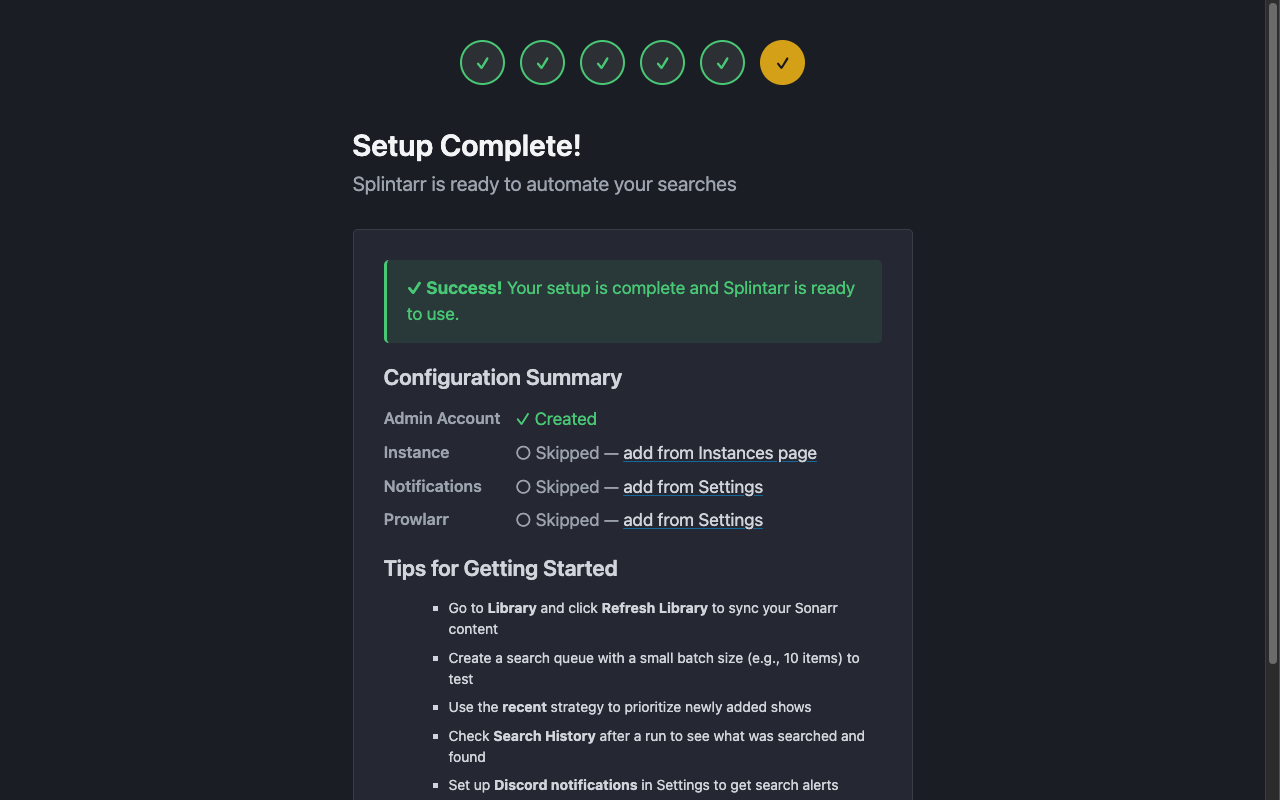
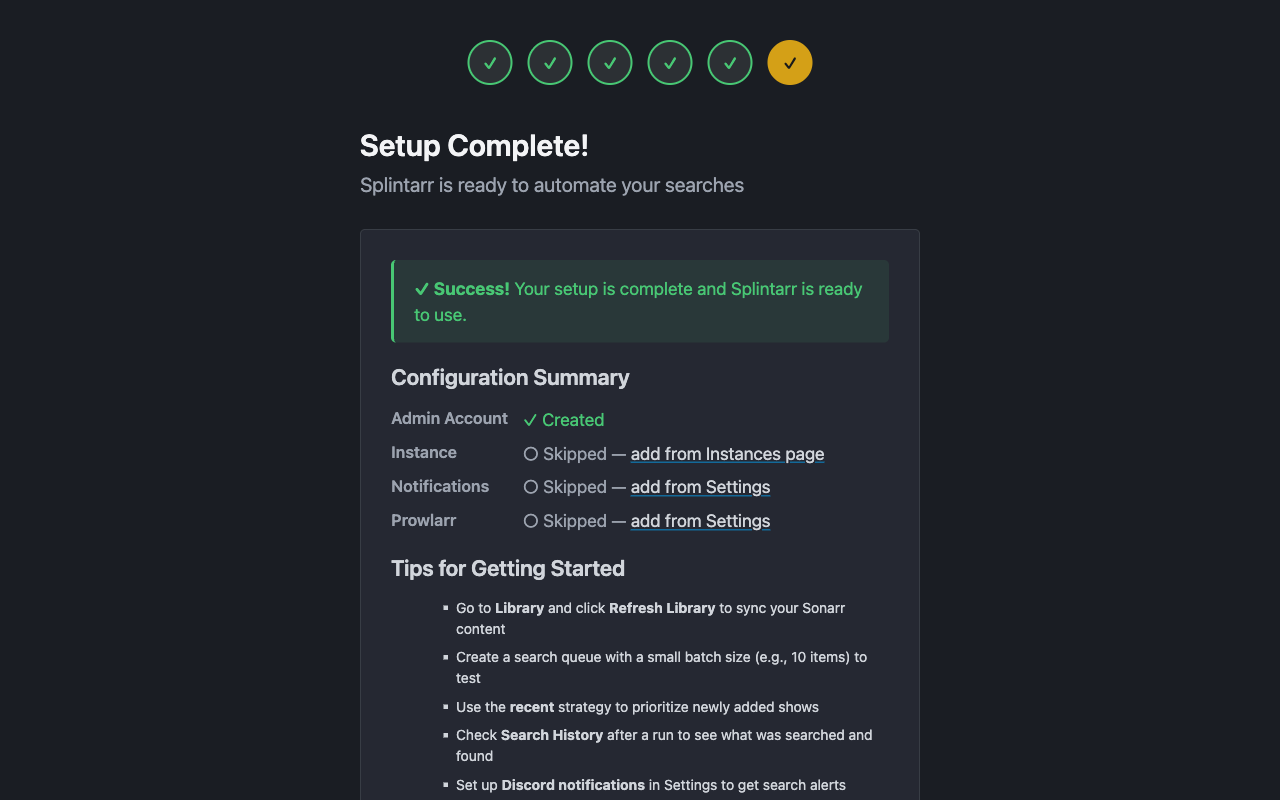
docs: comprehensive v1.3.0 documentation update with fresh screenshots
Regenerated all screenshots at 1280x800 from clean Docker install showing
v1.3.0 features: completion cards, indexer budget progress bars, scheduling
modes, and demo mode dashboard. Added 2 new screenshots for queue scheduling
(weekly mode, jitter, budget-aware toggle).

Updated docs across all layers:
- README: expanded screenshot table with scheduling and login views
- Search Strategies: added scheduling modes section (daily/weekly/jitter)
- Architecture: config import/export, budget-aware search, updated job table
- API Reference: 11 new endpoints from v1.1.0-v1.3.0
- Backup & Restore: config import/export tip, version bump
- Getting Started: schedule mode examples replace cron notation, jitter tip
- PRD: v1.3.0 features marked Done, deferred features labeled post-v1.3
- Upgrade Guide: built-in update checker in Staying Updated section
- CLAUDE.md: screenshot inventory updated with new files
- Fixed stale version footers (0.1.0 → 1.3.0) in security, troubleshoot,
  deploy-production docs

diff --git a/docs/PRD.md b/docs/PRD.md
@@ -94,7 +94,6 @@ Feature status across all releases (Sonarr only; Radarr support deferred to post
 | - | [v0.5.0 UX Overhaul](#v050) | **Done** | v0.5.0 | PR #94; Setup wizard, onboarding, filters |
 | - | [v0.5.1 Bug Fixes](#v051) | **Done** | v0.5.1 | PR #97; Progress bars, Docker version |
 | 13 | [Search Analytics Dashboard](#13-search-analytics-dashboard) | Deferred | v1.3.0 | Superseded by mini analytics (#18) |
-| 14 | [Config Import](#14-config-import) | Planned | v1.3.0 | Companion to Config Export |
 | 15 | [WebSocket Activity Feed](#15-websocket-real-time-activity-feed) | **Done** | v1.1.0 | PR #111 |
 | - | [Synthetic Demo Mode](#synthetic-demo-mode) | **Done** | v1.1.0 | PR #112 |
 | 16 | [Search Progress & Live Queue View](#16-search-progress--live-queue-view) | **Done** | v1.1.0 | PR #113 |
@@ -107,6 +106,9 @@ Feature status across all releases (Sonarr only; Radarr support deferred to post
 | 23 | [Queue Scheduling Improvements](#23-queue-scheduling-improvements) | **Done** | v1.3.0 | PR #125; Daily/weekly modes, jitter |
 | 25 | [Series Completion Cards](#25-series-completion-cards) | **Done** | v1.3.0 | PR #124; Dashboard + Library section |
 | 14 | [Config Import](#14-config-import) | **Done** | v1.3.0 | PR #126; Preview + atomic import |
+| 22 | [Quality-Aware Search Intelligence](#22-quality-aware-search-intelligence) | Deferred | Post-v1.3 | API spike done; implementation deferred |
+| 24 | [Apprise Notification Integration](#24-apprise-notification-integration) | Deferred | Post-v1.3 | Discord-only for now; Apprise deferred |
+| 26 | [Queue Recommendations](#26-queue-recommendations) | Deferred | Post-v1.3 | Deferred until demand warrants it |
 | - | Radarr Support | Deferred | Post-v1.3 | Backend code exists, UI gated |
 
 ---
@@ -513,13 +515,13 @@ Implement the stubbed Custom Strategy with simple dropdown filters: year range, 
 
 ### 21. Indexer Budget Visibility & Forecasting
 
-**Priority:** High | **Effort:** Medium | **Status:** Planned (v1.3.0)
+**Priority:** High | **Effort:** Medium | **Status:** Done (v1.3.0, PR #123)
 
 Per-indexer API usage progress bars on dashboard. Estimated API cost in queue creation. Budget alerts via notifications at 20% remaining. Smart batch auto-sizing ON by default — automatically reduces `max_items_per_run` when budget is low. User can disable per-queue.
 
 ### 22. Quality-Aware Search Intelligence
 
-**Priority:** Medium | **Effort:** Medium | **Status:** Planned (v1.3.0)
+**Priority:** Medium | **Effort:** Medium | **Status:** Deferred (post-v1.3)
 
 **API spike confirmed:** Sonarr exposes `quality.quality.resolution`, `quality.quality.source`, `customFormats`, `customFormatScore` on episode files.
 
@@ -527,25 +529,25 @@ New quality gap scoring factor for cutoff unmet: resolution gap (720p→1080p = 
 
 ### 23. Queue Scheduling Improvements
 
-**Priority:** Medium | **Effort:** Low-Medium | **Status:** Planned (v1.3.0)
+**Priority:** Medium | **Effort:** Low-Medium | **Status:** Done (v1.3.0, PR #125)
 
 Three schedule modes: Interval (existing "every N hours"), Daily ("run at HH:MM every day"), Weekly ("run at HH:MM on Mon/Wed/Fri"). Jitter: random 0-15 min offset to prevent thundering herd. Uses APScheduler CronTrigger (already a dependency).
 
 ### 24. Apprise Notification Integration
 
-**Priority:** Medium | **Effort:** Low | **Status:** Planned (v1.3.0)
+**Priority:** Medium | **Effort:** Low | **Status:** Deferred (post-v1.3)
 
 [Apprise](https://github.com/caronc/apprise) integration for 90+ notification services via URL strings. Keep existing Discord as primary. Apprise handles formatting and delivery for all additional services.
 
 ### 25. Series Completion Cards
 
-**Priority:** Medium | **Effort:** Low | **Status:** Planned (v1.3.0)
+**Priority:** Medium | **Effort:** Low | **Status:** Done (v1.3.0, PR #124)
 
 Library page "Completion Progress" section. Compact cards with small poster, completion bar, missing/total count. Filters: most incomplete, most recently aired, closest to complete.
 
 ### 26. Queue Recommendations
 
-**Priority:** Medium | **Effort:** Medium | **Status:** Planned (v1.3.0)
+**Priority:** Medium | **Effort:** Medium | **Status:** Deferred (post-v1.3)
 
 Post-sync library analysis with data-driven queue recommendations. Sizes batches to fit Prowlarr indexer limits. "You have 342 missing episodes → batch 20, every 6h, covered in ~4 days." One-click "Create recommended queues" button on Getting Started and empty Queues page.
 
@@ -557,7 +559,7 @@ Time-series charts, strategy comparison, instance comparison. Superseded by Feat
 
 ### 14. Config Import
 
-**Priority:** Low | **Effort:** Medium | **Status:** Planned (v1.3.0)
+**Priority:** Low | **Effort:** Medium | **Status:** Done (v1.3.0, PR #126)
 
 Companion to Config Export (v0.2.1). Upload JSON to restore instances, queues, exclusions, notifications. Conflict resolution for duplicate names, API key re-entry.
 

diff --git a/docs/explanation/search-strategies.md b/docs/explanation/search-strategies.md
@@ -236,6 +236,26 @@ Sorting optimizes for **search effectiveness**, not fairness. The goal is maximi
 
 If a popular recent show has 10 missing episodes and an obscure 5-year-old show has 10 missing episodes, searching the popular show first likely yields more results. The obscure show will get its turn, but after higher-probability targets.
 
+## Scheduling Modes
+
+*Added in v1.3.0*
+
+Each queue supports three scheduling modes:
+
+| Mode | Description | Use Case |
+|------|-------------|----------|
+| **Every N hours** | Runs at a fixed interval (1-168 hours) | High-frequency searches (recent, aggressive missing) |
+| **Daily** | Runs at a specific time every day (HH:MM) | Standard daily searches |
+| **Weekly** | Runs at a specific time on selected days | Weekly maintenance (cutoff unmet, quality upgrades) |
+
+### Jitter
+
+All modes support a **jitter** setting (0-15 minutes) that adds a random offset to prevent multiple queues from hitting indexers at exactly the same time. This uses APScheduler's native jitter support.
+
+### Budget-Aware Batch Sizing
+
+When **"Adjust batch size based on indexer budget"** is enabled on a queue, Splintarr reduces the items-per-run when indexer API budget is low. This prevents wasting limited API calls on low-priority searches.
+
 ## Configuration Patterns
 
 ### Daily Operations
@@ -245,8 +265,8 @@ If a popular recent show has 10 missing episodes and an obscure 5-year-old show 
 **Pattern**:
 ```
 Recent Strategy: Every 6 hours, batch size 10
-Missing Strategy: Daily at 2 AM, batch size 20
-Cutoff Strategy: Weekly on Saturday, batch size 50
+Missing Strategy: Daily at 2:00 AM, batch size 20
+Cutoff Strategy: Weekly on Saturday at 2:00 AM, batch size 50
 ```
 
 **Rationale**: Recent strategy catches new releases quickly. Missing strategy fills gaps daily. Cutoff strategy improves quality on relaxed schedule.

diff --git a/docs/explanation/architecture.md b/docs/explanation/architecture.md
@@ -183,7 +183,7 @@ Security is implemented in layers:
 
 Background job processing uses APScheduler for its flexibility and reliability:
 
-**Job Store**: SQLite-based persistence ensures jobs survive restarts
+**Job Store**: Memory-based persistence with job re-registration on startup
 
 **Execution**: Async execution prevents blocking the API server
 
@@ -199,14 +199,21 @@ Background job processing uses APScheduler for its flexibility and reliability:
 
 Search queues operate independently:
 
-1. **Scheduler triggers** job at configured time
+1. **Scheduler triggers** job at configured time (interval, daily, or weekly mode with optional jitter)
 2. **Queue processor** fetches items based on strategy
-3. **Rate limiting** ensures indexer limits respected
-4. **Search execution** calls Sonarr/Radarr API asynchronously
-5. **History recording** prevents duplicate searches
-6. **Error handling** retries with exponential backoff
+3. **Budget check** — if `budget_aware` is enabled, reduces batch size when indexer API budget is low
+4. **Rate limiting** ensures indexer limits respected
+5. **Search execution** calls Sonarr/Radarr API asynchronously
+6. **History recording** prevents duplicate searches
+7. **Error handling** retries with exponential backoff
 
 This decoupled design allows multiple queues to run concurrently while respecting system-wide rate limits.
+
+### Config Import/Export
+
+*Added in v1.3.0*
+
+Config export downloads a JSON snapshot of instances (API keys redacted), queues, exclusions, and notification settings. Config import validates the JSON, shows a preview with conflict detection, requires re-entry of API keys and webhook URLs, and applies atomically with rollback on failure. SSRF protection validates all imported instance URLs.
 
 ## HTTP Client Architecture
 

diff --git a/docs/reference/api.md b/docs/reference/api.md
@@ -2,8 +2,8 @@
 ## Splintarr REST API
 
 **Base URL:** `http://localhost:7337/api`
-**Version:** 0.1.0
-**Authentication:** Bearer JWT Token
+**Version:** 1.3.0
+**Authentication:** JWT via httpOnly cookies (access_token + refresh_token)
 
 ---
 
@@ -632,7 +632,7 @@ username=admin&password=SecurePassword123!
 ```json
 {
   "status": "healthy",
-  "version": "0.1.0",
+  "version": "1.3.0",
   "database": "connected",
   "uptime_seconds": 3600
 }
@@ -720,5 +720,21 @@ Interactive API documentation available at:
 
 ---
 
-**Version:** 0.1.0
-**Last Updated:** 2026-02-24
+**Version:** 1.3.0
+**Last Updated:** 2026-03-04
+
+### Additional Endpoints (v1.1.0+)
+
+| Method | Path | Description | Added |
+|--------|------|-------------|-------|
+| GET | `/ws/live` | WebSocket real-time events | v1.1.0 |
+| POST | `/api/search-queues/{id}/preview` | Dry run / preview next run | v1.1.0 |
+| POST | `/api/search-queues/bulk` | Bulk pause/resume/delete | v1.1.0 |
+| GET | `/api/search-history/analytics` | Last 7 days analytics | v1.1.0 |
+| GET | `/api/updates/status` | Update checker status | v1.1.1 |
+| POST | `/api/updates/check` | Trigger update check | v1.1.1 |
+| POST | `/api/updates/dismiss` | Dismiss update banner | v1.1.1 |
+| GET | `/api/instances/{id}/quality-profiles` | Quality profiles from library | v1.2.0 |
+| GET | `/api/library/completion` | Completion progress lists | v1.3.0 |
+| POST | `/api/config/import/preview` | Preview config import | v1.3.0 |
+| POST | `/api/config/import/apply` | Apply config import | v1.3.0 |

diff --git a/docs/tutorials/getting-started.md b/docs/tutorials/getting-started.md
@@ -91,7 +91,7 @@ Go to **Search Queues** and click **Create Queue**. Fill in the following:
 | **Name** | Descriptive label | "Daily Missing Search" |
 | **Instance** | Which Sonarr/Radarr to search | Select the instance you just added |
 | **Strategy** | What to look for | Missing |
-| **Schedule** | When to run | Daily at 2:00 AM |
+| **Schedule** | When to run | Daily at 2:00 AM (or choose Interval, Weekly modes) |
 | **Items per Batch** | How many items per run | 50 |
 
 ### Search Strategies
@@ -109,7 +109,7 @@ Click **Create Queue** to save. The queue will run automatically on its schedule
 ```
 Name: Daily Missing
 Strategy: Missing
-Schedule: 0 2 * * * (2 AM daily)
+Schedule Mode: Daily at 02:00
 Batch Size: 50
 ```
 
@@ -117,7 +117,7 @@ Batch Size: 50
 ```
 Name: Weekend Upgrades
 Strategy: Cutoff Unmet
-Schedule: 0 2 * * 6 (Saturday 2 AM)
+Schedule Mode: Weekly on Sat at 02:00
 Batch Size: 30
 ```
 
@@ -155,6 +155,8 @@ Once an item is searched, it will not be searched again for 24 hours. This preve
 - Missing: run daily
 - Cutoff Unmet: run weekly
 - Recent: run every 6 hours
+
+**Add jitter** to prevent multiple queues from hitting indexers at the exact same time (0-15 min random offset)
 
 ---
 

diff --git a/CLAUDE.md b/CLAUDE.md
@@ -174,10 +174,14 @@ Screenshots live in `docs/images/` and are referenced from `README.md` and `docs
 | `setup-welcome.png` | getting-started.md | Setup wizard welcome |
 | `setup-admin.png` | getting-started.md | Admin account creation |
 | `setup-instance.png` | getting-started.md | Instance configuration |
+| `setup-notifications.png` | getting-started.md | Notifications setup |
+| `setup-prowlarr.png` | getting-started.md | Prowlarr setup |
 | `setup-complete.png` | getting-started.md | Setup completion |
-| `dashboard.png` | README.md, getting-started.md | Main dashboard |
+| `dashboard.png` | README.md, getting-started.md | Main dashboard with completion cards, indexer budget, analytics |
 | `instances.png` | README.md | Add Instance modal |
 | `search-queues.png` | README.md, getting-started.md | Create Queue modal |
+| `search-queues-scheduling.png` | README.md | Queue scheduling: weekly mode, day checkboxes, jitter |
+| `search-queues-budget.png` | — | Queue budget-aware toggle and cooldown mode |
 | `settings.png` | README.md | Settings with notifications |
 | `library.png` | README.md | Library overview |
 | `exclusions.png` | README.md | Content exclusions |

diff --git a/docs/how-to-guides/upgrade.md b/docs/how-to-guides/upgrade.md
@@ -537,21 +537,24 @@ docker pull splintarr:dev
 
 ## Staying Updated
 
-### Check for Updates
+### Built-In Update Checker (v1.1.1+)
+
+Splintarr checks for new releases automatically every 24 hours. When a newer version is available, a dismissible gold banner appears on the dashboard. You can also check manually from Settings > Update Notifications > "Check Now".
+
+### Manual Check
 
 ```bash
 # Check current version
-docker inspect splintarr | jq '.[0].Config.Labels."org.opencontainers.image.version"'
+docker exec splintarr cat /app/pyproject.toml | grep version
 
 # Check latest available
-curl -s https://api.github.com/repos/yourusername/splintarr/releases/latest | jq -r .tag_name
+curl -s https://api.github.com/repos/menottim/splintarr/releases/latest | jq -r .tag_name
 ```
 
 ### Subscribe to Updates
 
 - **GitHub Releases:** Watch repository for releases
-- **RSS Feed:** Subscribe to releases RSS feed
-- **Email Notifications:** Enable in GitHub settings
+- **Discord Notifications:** Enable the `update_available` notification type in Settings
 
 ---
 

diff --git a/README.md b/README.md
@@ -119,10 +119,12 @@ Documentation is organized following the [Diataxis](https://diataxis.fr/) framew
 | Dashboard | Instance Management |
 |:-:|:-:|
 | ![Dashboard](docs/images/dashboard.png) | ![Instances](docs/images/instances.png) |
-| **Search Queues** | **Settings & Notifications** |
-| ![Search Queues](docs/images/search-queues.png) | ![Settings](docs/images/settings.png) |
-| **Library** | **Exclusions** |
-| ![Library](docs/images/library.png) | ![Exclusions](docs/images/exclusions.png) |
+| **Search Queues** | **Queue Scheduling** |
+| ![Search Queues](docs/images/search-queues.png) | ![Queue Scheduling](docs/images/search-queues-scheduling.png) |
+| **Settings & Notifications** | **Library** |
+| ![Settings](docs/images/settings.png) | ![Library](docs/images/library.png) |
+| **Exclusions** | **Login** |
+| ![Exclusions](docs/images/exclusions.png) | ![Login](docs/images/login.png) |
 
 ---
 

diff --git a/docs/how-to-guides/backup-and-restore.md b/docs/how-to-guides/backup-and-restore.md
@@ -1,8 +1,10 @@
 # Backup and Restore Guide
 
-**Splintarr v0.1.0-alpha**
+**Splintarr v1.3.0**
 
 This guide provides comprehensive procedures for backing up and restoring your Splintarr installation.
+
+> **Tip:** Splintarr v1.3.0 added **Config Import/Export** (Settings > System) for backing up and restoring instances, queues, exclusions, and notification settings as JSON. This complements the full database backup procedures below — config export handles application-level settings, while database backup captures all data including search history and library state.
 
 ---
 

diff --git a/docs/how-to-guides/deploy-production.md b/docs/how-to-guides/deploy-production.md
@@ -298,4 +298,4 @@ SQLite does not work well over network filesystems (NFS, SMB/CIFS). Always
 store the database on local or directly-attached storage.
 
 ---
-*Version 0.1.0 -- Last updated 2026-02-25*
+*Version 1.3.0 -- Last updated 2026-03-04*

diff --git a/docs/explanation/security.md b/docs/explanation/security.md
@@ -300,5 +300,5 @@ The following security limitations have been reviewed, risk-assessed, and accept
 
 ---
 
-**Version:** 0.1.0
-**Last Updated:** 2026-02-28
+**Version:** 1.3.0
+**Last Updated:** 2026-03-04

diff --git a/docs/how-to-guides/troubleshoot.md b/docs/how-to-guides/troubleshoot.md
@@ -1021,5 +1021,5 @@ docker-compose logs --tail=100
 
 ---
 
-**Version:** 0.1.0
-**Last Updated:** 2026-02-24
+**Version:** 1.3.0
+**Last Updated:** 2026-03-04
